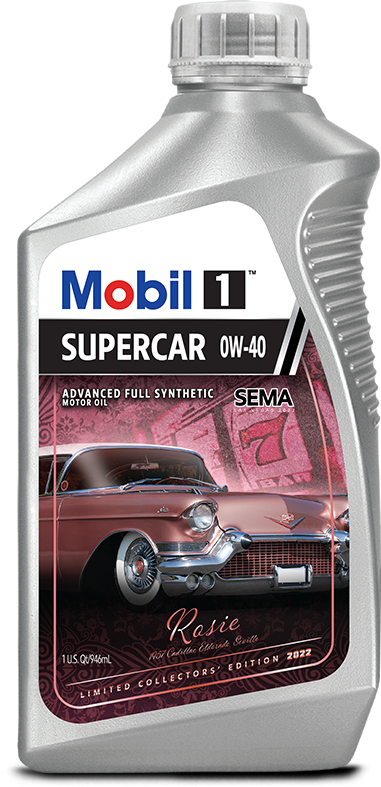
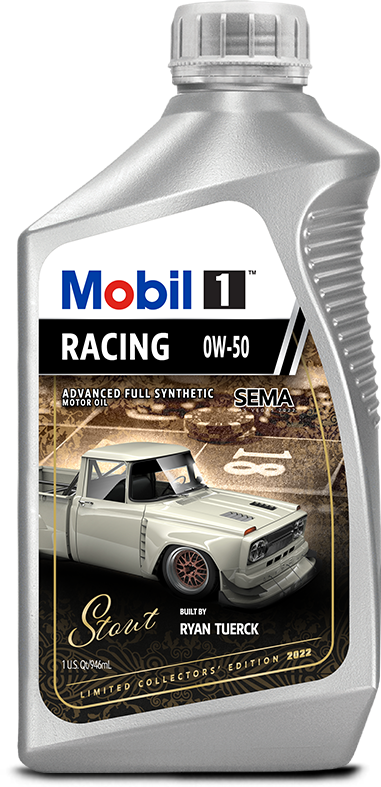
First commit

Changed region(s): [[0.0866, 0.3355, 0.9239, 0.9454]]

diff --git a/pages/index.js b/pages/index.js
@@ -24,7 +24,7 @@ export default function Home() {
           </div>
           <div>
             <p className="text-center text-lg md:text-3xl font-light w-3/4 mx-auto">
-              {`Starting here at SEMA, we're inviting you dear reader, to experience more content on Rosie before it drops anywhere else.`}
+              {`Starting here at SEMA, we're inviting you dear reader, to experience more content on the Stout before it drops anywhere else.`}
             </p>
           </div>
           <Link
@@ -42,7 +42,7 @@ export default function Home() {
         </div>
         <div className="flex flex-col lg:flex-row gap-12 md:gap-24 w-3/4 mx-auto">
           <Bottle />
-          <p className="lg:w-11/12 text-center md:text-left text-lg md:text-3xl font-light self-center">{`Did you know that Mobil 1 Supercar 0W-40 is the first and only dexos-approved motor oil developed specifically for Corvette? The technology that helped produce every Corvette Racing win ends up in a motor oil that guarantees Corvette power and precision. `}</p>
+          <p className="lg:w-11/12 text-center md:text-left text-lg md:text-3xl font-light self-center">{`Let's bring it back. This Toyota Stout looks modern, but its motivation is nothing but a throwback. Powered by a custom-built 3S-GTE, and protected by Mobil 1 Racing 0W-50, Ryan Tuerck's Toyota Stout heritage project is all business up front, and a party in the back.`}</p>
         </div>
         <p className="text-center text-sm text-gray-400 mt-4">
           *Mobil 1 bottle custom label not found elsewhere.
@@ -51,7 +51,7 @@ export default function Home() {
           <h2 className="text-4xl font-bold text-center mb-12">
             Sign up, stay tuned
           </h2>
-          <Form formId="127" />
+          <Form formId="133" />
         </div>
       </div>
     </div>

diff --git a/pages/digital/index.js b/pages/digital/index.js
@@ -42,7 +42,7 @@ export default function Digital() {
         </div>
         <div className="flex flex-col lg:flex-row gap-12 md:gap-24 w-3/4 mx-auto">
           <Bottle />
-          <p className="lg:w-11/12 text-center md:text-left text-lg md:text-3xl font-light self-center">{`Did you know that Mobil 1 Supercar 0W-40 is the first and only dexos-approved motor oil developed specifically for Corvette? The technology that helped produce every Corvette Racing win ends up in a motor oil that guarantees Corvette power and precision. `}</p>
+          <p className="lg:w-11/12 text-center md:text-left text-lg md:text-3xl font-light self-center">{`Let's bring it back. This Toyota Stout looks modern, but its motivation is nothing but a throwback. Powered by a custom-built 3S-GTE, and protected by Mobil 1 Racing 0W-50, Ryan Tuerck's Toyota Stout heritage project is all business up front, and a party in the back.`}</p>
         </div>
         <p className="text-center text-sm text-gray-400 mt-4">
           *Mobil 1 bottle custom label not found elsewhere.
@@ -51,7 +51,7 @@ export default function Digital() {
           <h2 className="text-4xl font-bold text-center mb-12">
             Sign up, stay tuned
           </h2>
-          <Form formId="127" />
+          <Form formId="132" />
         </div>
       </div>
     </div>
